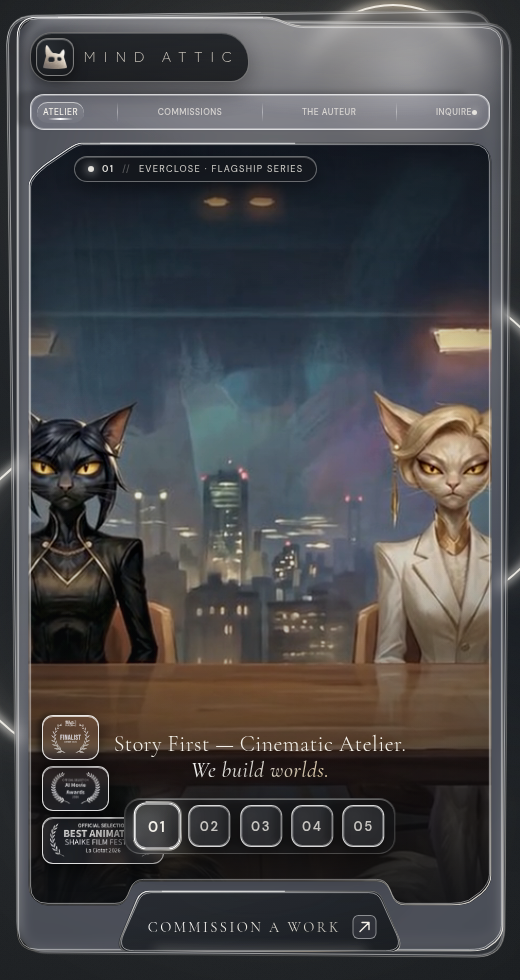
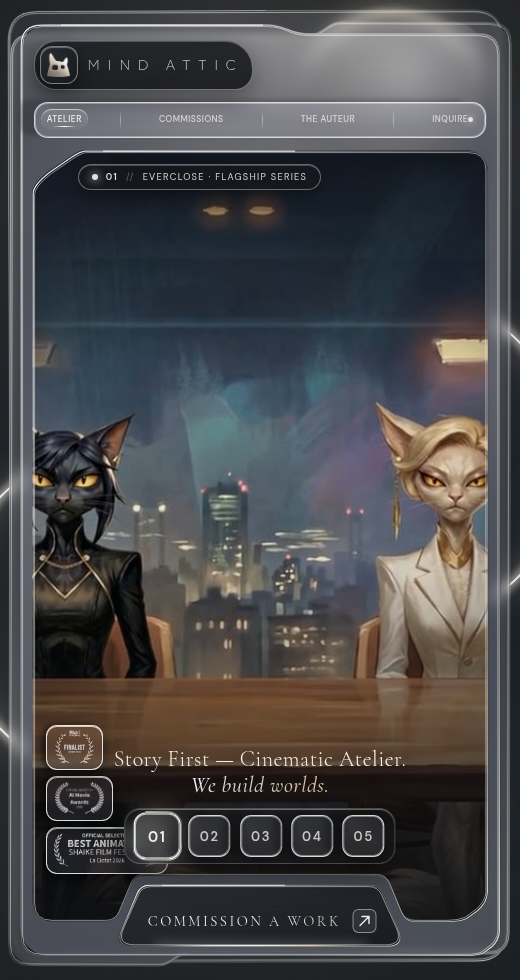
Seat the mobile commission button inside the frame and fan the glass.
The larger button stays the same size and now sits 9px above the HUD outline, with the viewport notch tracking that lift. The main mobile sheet is inset and the rear sheet steps out around it.

Changed region(s): [[0.0, 0.0, 1.0, 1.0], [0.4, 0.3673, 0.4923, 0.398], [0.3077, 0.4898, 0.3385, 0.5204]]

diff --git a/assets/js/app.js b/assets/js/app.js
@@ -84,6 +84,40 @@
     ].join(" ");
   }
 
+  /**
+   * Layer 2 on a phone. The sheet is already larger than the main panel;
+   * this contour keeps the outer top-right and bottom-left on that larger
+   * box and steps the opposite corners in, so both wings read from behind
+   * the main frame.
+   */
+  function buildRearPanelPath(w, h, inset) {
+    const rad = Math.max(10, 22 - inset);
+    const x0 = inset;
+    const y0 = inset;
+    const x1 = w - inset;
+    const y1 = h - inset;
+    const rise = Math.round(Math.min(16, Math.max(11, h * 0.014)));
+    const step = Math.round(Math.min(26, Math.max(16, w * 0.048)));
+    const topJoin = Math.round(Math.min(w * 0.64, x1 - rad - step - 12));
+    const botJoin = Math.round(Math.max(w * 0.32, x0 + rad + step + 12));
+    return [
+      `M ${x0 + rad} ${y0 + rise}`,
+      `L ${topJoin - step} ${y0 + rise}`,
+      `C ${topJoin - step * 0.35} ${y0 + rise}, ${topJoin - step * 0.12} ${y0}, ${topJoin + step * 0.4} ${y0}`,
+      `L ${x1 - rad} ${y0}`,
+      `Q ${x1} ${y0} ${x1} ${y0 + rad}`,
+      `L ${x1} ${y1 - rise - rad}`,
+      `Q ${x1} ${y1 - rise} ${x1 - rad} ${y1 - rise}`,
+      `L ${botJoin + step} ${y1 - rise}`,
+      `C ${botJoin + step * 0.35} ${y1 - rise}, ${botJoin + step * 0.12} ${y1}, ${botJoin - step * 0.4} ${y1}`,
+      `L ${x0 + rad} ${y1}`,
+      `Q ${x0} ${y1} ${x0} ${y1 - rad}`,
+      `L ${x0} ${y0 + rise + rad}`,
+      `Q ${x0} ${y0 + rise} ${x0 + rad} ${y0 + rise}`,
+      "Z",
+    ].join(" ");
+  }
+
   function buildChassisPath(w, h, r, inset, stepXRatio, stepDrop) {
     const mobile = layoutIsMobile();
     const x0 = inset;
@@ -267,9 +301,12 @@
     if (W < 2 || H < 2 || v.width < 2) return null;
 
     const shape = ctaMetrics(W, H, 0);
-    const btnTop = b.top - v.top;
-    const overlap = v.height - btnTop;
-    const depth = Math.max(channel + 16, overlap + channel);
+    const overlap = v.bottom - b.top;
+    // Ceiling sits one channel above the button. Raising the button deepens
+    // the notch by the same amount, so the gap stays 8px on mobile / 9px on desktop.
+    const depth = overlap > 0
+      ? Math.round(Math.min(Math.max(overlap + channel, 28), 58))
+      : (isMobile ? 42 : 44);
     const topHalf = W / 2 - shape.t;
     const ceilingHalf = topHalf + (channel * shape.side) / H - shape.slope * channel;
 
@@ -534,8 +571,9 @@
 
     const b2 = elementBox(l2);
     if (b2) {
-      const dOuter = roundedRectPath(b2.w, b2.h, 30, 0.5);
-      const dInset = roundedRectPath(b2.w, b2.h, 30, 2.5);
+      const rear = layoutIsMobile();
+      const dOuter = rear ? buildRearPanelPath(b2.w, b2.h, 0.5) : roundedRectPath(b2.w, b2.h, 30, 0.5);
+      const dInset = rear ? buildRearPanelPath(b2.w, b2.h, 2.5) : roundedRectPath(b2.w, b2.h, 30, 2.5);
       applyClip(l2, dOuter);
       renderDualRimSVG(document.getElementById("svg-layer-2"), dOuter, dInset, b2.w, b2.h, true);
     }

diff --git a/assets/css/style.css b/assets/css/style.css
@@ -1108,9 +1108,9 @@ html, body {
     height: 100dvh;
     min-height: 100vh;
     min-height: 100dvh;
-    /* Obsidian margin so the glass stack floats clear of the screen edge
-       and of mobile browser / preview chrome. */
-    padding: 16px 16px 28px;
+    /* Dark margin around the main sheet. Rear sheets overflow the stage
+       into this padding, and still stay inside the screen. */
+    padding: clamp(18px, 2.4vh, 26px) clamp(16px, 3.8vw, 24px);
     align-items: stretch;
     overflow: hidden;
   }
@@ -1123,17 +1123,25 @@ html, body {
   }
 
   .glass-layer--1 {
-    transform: rotate(-0.65deg) translate(-5px, -4px);
+    top: clamp(-14px, -1.35vh, -10px);
+    right: clamp(-6px, -1vw, -3px);
+    bottom: clamp(-7px, -0.65vh, -4px);
+    left: clamp(-11px, -2.05vw, -8px);
+    transform: rotate(-0.2deg);
   }
   .glass-layer--2 {
-    transform: rotate(0.45deg) translate(5px, 4px);
+    top: clamp(-4px, -0.3vh, -2px);
+    right: clamp(-11px, -2.05vw, -8px);
+    bottom: clamp(-11px, -1.05vh, -8px);
+    left: clamp(-11px, -2.05vw, -8px);
+    transform: rotate(0.15deg);
   }
 
   .glass-layer--3 {
     height: 100%;
     min-height: 0;
     grid-template-rows: auto minmax(0, 1fr) auto;
-    padding: 14px 12px 12px;
+    padding: 14px 12px 0;
     gap: 12px;
   }
 
@@ -1220,7 +1228,7 @@ html, body {
     z-index: 15;
     left: 50%;
     right: auto;
-    bottom: 122px;
+    bottom: 124px;
     transform: translateX(-50%);
     width: min(88%, 420px);
     text-align: center;
@@ -1270,7 +1278,7 @@ html, body {
     right: auto;
     top: auto;
     left: 50%;
-    bottom: 52px;
+    bottom: 58px;
     transform: translateX(-50%);
     flex-direction: row;
     gap: clamp(7px, 1.8vw, 10px);
@@ -1315,8 +1323,10 @@ html, body {
   }
 
   .cta-command-dock-wrap {
+    top: auto;
+    bottom: 9px;
     margin-top: 0;
-    transform: translate(-50%, -28px);
+    transform: translateX(-50%);
   }
 
   .cta-command-button {
@@ -1351,6 +1361,6 @@ html, body {
 /* The wider mobile notch reaches the laurel stack through about 680px. */
 @media (max-width: 680px) {
   .viewport-laurels {
-    bottom: 42px;
+    bottom: 48px;
   }
 }
